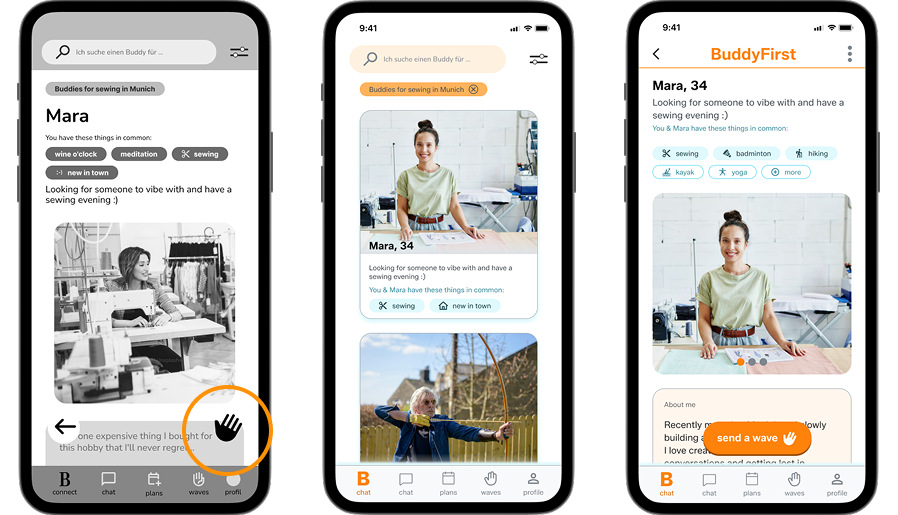
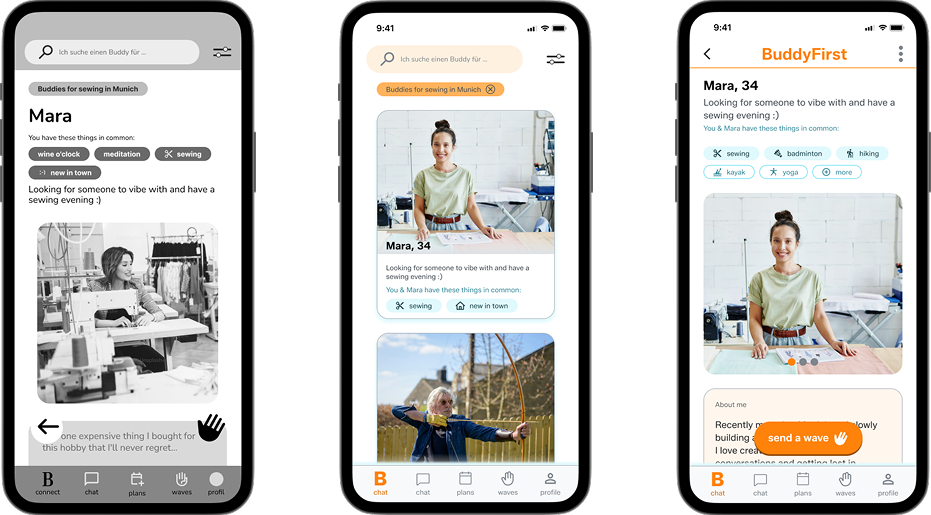
update buddy-first

diff --git a/buddy-first_test124.html b/buddy-first_test124.html
@@ -534,24 +534,28 @@
       <!-- What changed -->
       <p class="section-label" style="margin-bottom:1.25rem;">What changed</p>
 
-      <!-- Row 1: stacked vertically -->
-      <div style="display:flex; flex-direction:column; gap:1rem; margin-bottom:2rem;">
-        <img src="ut-b-profileshorter.png" style="height:413px; width:auto; align-self:flex-start;"/>
-        <div style="background:white; border:1px solid rgba(28,31,59,0.1); border-radius:12px; padding:1.1rem 1.25rem; display:flex; flex-direction:column; gap:0.6rem; width:fit-content; max-width:480px;">
-          <div style="display:flex; gap:0.5rem; align-items:start;"><span style="color:#5580ED; flex-shrink:0;">✦</span><p class="section-body" style="font-size:0.95rem;">Instead of landing on one profile directly, users now see multiple profiles to browse first</p></div>
-          <div style="display:flex; gap:0.5rem; align-items:start;"><span style="color:#5580ED; flex-shrink:0;">✦</span><p class="section-body" style="font-size:0.95rem;">CTA button made visually prominent so the next action is immediately obvious</p></div>
+      <!-- Row 1: two columns, each with image on top + white box below -->
+      <div style="display:flex; gap:3rem; margin-bottom:2rem; align-items:flex-start;">
+        <div style="display:flex; flex-direction:column; gap:1rem; flex:1;">
+          <img src="ut-b-profileshorter.png" style="width:100%; height:auto;"/>
+          <div style="background:white; border:1px solid rgba(28,31,59,0.1); border-radius:12px; padding:1.1rem 1.25rem; display:flex; flex-direction:column; gap:0.6rem;">
+            <div style="display:flex; gap:0.5rem; align-items:start;"><span style="color:#5580ED; flex-shrink:0;">✦</span><p class="section-body" style="font-size:0.95rem;">Instead of landing on one profile directly, users now see multiple profiles to browse first</p></div>
+            <div style="display:flex; gap:0.5rem; align-items:start;"><span style="color:#5580ED; flex-shrink:0;">✦</span><p class="section-body" style="font-size:0.95rem;">CTA button made visually prominent so the next action is immediately obvious</p></div>
+          </div>
         </div>
-        <img src="ut-b-matchingoptions.png" style="height:413px; width:auto; align-self:flex-start;"/>
-        <div style="background:white; border:1px solid rgba(28,31,59,0.1); border-radius:12px; padding:1.1rem 1.25rem; display:flex; flex-direction:column; gap:0.6rem; width:fit-content; max-width:480px;">
-          <div style="display:flex; gap:0.5rem; align-items:start;"><span style="color:#5580ED; flex-shrink:0;">✦</span><p class="section-body" style="font-size:0.95rem;">Post-match options reorganised and reprioritised</p></div>
-          <div style="display:flex; gap:0.5rem; align-items:start;"><span style="color:#5580ED; flex-shrink:0;">✦</span><p class="section-body" style="font-size:0.95rem;">Options reduced from 3 to 2, less decision effort, more clarity</p></div>
+        <div style="display:flex; flex-direction:column; gap:1rem; flex:1;">
+          <img src="ut-b-matchingoptions.png" style="width:100%; height:auto;"/>
+          <div style="background:white; border:1px solid rgba(28,31,59,0.1); border-radius:12px; padding:1.1rem 1.25rem; display:flex; flex-direction:column; gap:0.6rem;">
+            <div style="display:flex; gap:0.5rem; align-items:start;"><span style="color:#5580ED; flex-shrink:0;">✦</span><p class="section-body" style="font-size:0.95rem;">Post-match options reorganised and reprioritised</p></div>
+            <div style="display:flex; gap:0.5rem; align-items:start;"><span style="color:#5580ED; flex-shrink:0;">✦</span><p class="section-body" style="font-size:0.95rem;">Options reduced from 3 to 2, less decision effort, more clarity</p></div>
+          </div>
         </div>
       </div>
 
       <!-- Row 2 -->
       <div style="display:flex; gap:3rem; margin-bottom:1rem; align-items:flex-start;">
-        <img src="ut-b-matching1screen.png" style="height:413px; width:auto; align-self:flex-start;"/>
-        <img src="ut-b-profilelength.png" style="height:413px; width:auto; align-self:flex-start;"/>
+        <img src="ut-b-matching1screen.png" style="height:413px; width:auto;"/>
+        <img src="ut-b-profilelength.png" style="height:413px; width:auto;"/>
       </div>
       <div style="display:flex; gap:3rem; align-items:flex-start;">
         <div style="background:white; border:1px solid rgba(28,31,59,0.1); border-radius:12px; padding:1.1rem 1.25rem; flex:1; display:flex; flex-direction:column; gap:0.6rem;">
@@ -561,7 +565,6 @@
           <div style="display:flex; gap:0.5rem; align-items:start;"><span style="color:#5580ED; flex-shrink:0;">✦</span><p class="section-body" style="font-size:0.95rem;">Profile length drastically reduced, content reorganised with clearer hierarchy</p></div>
         </div>
       </div>
-
 
 
     </div>

diff --git a/buddy-first_test126.html b/buddy-first_test126.html
@@ -536,13 +536,13 @@
 
       <!-- Row 1: stacked vertically -->
       <div style="display:flex; flex-direction:column; gap:1rem; margin-bottom:2rem;">
-        <img src="ut-b-profileshorter.png" style="height:413px; width:auto; align-self:flex-start;"/>
-        <div style="background:white; border:1px solid rgba(28,31,59,0.1); border-radius:12px; padding:1.1rem 1.25rem; display:flex; flex-direction:column; gap:0.6rem; width:fit-content; max-width:480px;">
+        <img src="ut-b-profileshorter.png" style="height:413px; width:auto;"/>
+        <div style="background:white; border:1px solid rgba(28,31,59,0.1); border-radius:12px; padding:1.1rem 1.25rem; display:flex; flex-direction:column; gap:0.6rem;">
           <div style="display:flex; gap:0.5rem; align-items:start;"><span style="color:#5580ED; flex-shrink:0;">✦</span><p class="section-body" style="font-size:0.95rem;">Instead of landing on one profile directly, users now see multiple profiles to browse first</p></div>
           <div style="display:flex; gap:0.5rem; align-items:start;"><span style="color:#5580ED; flex-shrink:0;">✦</span><p class="section-body" style="font-size:0.95rem;">CTA button made visually prominent so the next action is immediately obvious</p></div>
         </div>
-        <img src="ut-b-matchingoptions.png" style="height:413px; width:auto; align-self:flex-start;"/>
-        <div style="background:white; border:1px solid rgba(28,31,59,0.1); border-radius:12px; padding:1.1rem 1.25rem; display:flex; flex-direction:column; gap:0.6rem; width:fit-content; max-width:480px;">
+        <img src="ut-b-matchingoptions.png" style="height:413px; width:auto;"/>
+        <div style="background:white; border:1px solid rgba(28,31,59,0.1); border-radius:12px; padding:1.1rem 1.25rem; display:flex; flex-direction:column; gap:0.6rem;">
           <div style="display:flex; gap:0.5rem; align-items:start;"><span style="color:#5580ED; flex-shrink:0;">✦</span><p class="section-body" style="font-size:0.95rem;">Post-match options reorganised and reprioritised</p></div>
           <div style="display:flex; gap:0.5rem; align-items:start;"><span style="color:#5580ED; flex-shrink:0;">✦</span><p class="section-body" style="font-size:0.95rem;">Options reduced from 3 to 2, less decision effort, more clarity</p></div>
         </div>
@@ -550,8 +550,8 @@
 
       <!-- Row 2 -->
       <div style="display:flex; gap:3rem; margin-bottom:1rem; align-items:flex-start;">
-        <img src="ut-b-matching1screen.png" style="height:413px; width:auto; align-self:flex-start;"/>
-        <img src="ut-b-profilelength.png" style="height:413px; width:auto; align-self:flex-start;"/>
+        <img src="ut-b-matching1screen.png" style="height:413px; width:auto;"/>
+        <img src="ut-b-profilelength.png" style="height:413px; width:auto;"/>
       </div>
       <div style="display:flex; gap:3rem; align-items:flex-start;">
         <div style="background:white; border:1px solid rgba(28,31,59,0.1); border-radius:12px; padding:1.1rem 1.25rem; flex:1; display:flex; flex-direction:column; gap:0.6rem;">
@@ -561,7 +561,6 @@
           <div style="display:flex; gap:0.5rem; align-items:start;"><span style="color:#5580ED; flex-shrink:0;">✦</span><p class="section-body" style="font-size:0.95rem;">Profile length drastically reduced, content reorganised with clearer hierarchy</p></div>
         </div>
       </div>
-
 
 
     </div>

diff --git a/buddy-first_test127.html b/buddy-first_test127.html
@@ -537,12 +537,12 @@
       <!-- Row 1: stacked vertically -->
       <div style="display:flex; flex-direction:column; gap:1rem; margin-bottom:2rem;">
         <img src="ut-b-profileshorter.png" style="height:413px; width:auto; align-self:flex-start;"/>
-        <div style="background:white; border:1px solid rgba(28,31,59,0.1); border-radius:12px; padding:1.1rem 1.25rem; display:flex; flex-direction:column; gap:0.6rem; width:fit-content; max-width:480px;">
+        <div style="background:white; border:1px solid rgba(28,31,59,0.1); border-radius:12px; padding:1.1rem 1.25rem; display:flex; flex-direction:column; gap:0.6rem;">
           <div style="display:flex; gap:0.5rem; align-items:start;"><span style="color:#5580ED; flex-shrink:0;">✦</span><p class="section-body" style="font-size:0.95rem;">Instead of landing on one profile directly, users now see multiple profiles to browse first</p></div>
           <div style="display:flex; gap:0.5rem; align-items:start;"><span style="color:#5580ED; flex-shrink:0;">✦</span><p class="section-body" style="font-size:0.95rem;">CTA button made visually prominent so the next action is immediately obvious</p></div>
         </div>
         <img src="ut-b-matchingoptions.png" style="height:413px; width:auto; align-self:flex-start;"/>
-        <div style="background:white; border:1px solid rgba(28,31,59,0.1); border-radius:12px; padding:1.1rem 1.25rem; display:flex; flex-direction:column; gap:0.6rem; width:fit-content; max-width:480px;">
+        <div style="background:white; border:1px solid rgba(28,31,59,0.1); border-radius:12px; padding:1.1rem 1.25rem; display:flex; flex-direction:column; gap:0.6rem;">
           <div style="display:flex; gap:0.5rem; align-items:start;"><span style="color:#5580ED; flex-shrink:0;">✦</span><p class="section-body" style="font-size:0.95rem;">Post-match options reorganised and reprioritised</p></div>
           <div style="display:flex; gap:0.5rem; align-items:start;"><span style="color:#5580ED; flex-shrink:0;">✦</span><p class="section-body" style="font-size:0.95rem;">Options reduced from 3 to 2, less decision effort, more clarity</p></div>
         </div>
@@ -561,7 +561,6 @@
           <div style="display:flex; gap:0.5rem; align-items:start;"><span style="color:#5580ED; flex-shrink:0;">✦</span><p class="section-body" style="font-size:0.95rem;">Profile length drastically reduced, content reorganised with clearer hierarchy</p></div>
         </div>
       </div>
-
 
 
     </div>

diff --git a/buddy-first131.html b/buddy-first131.html
@@ -562,7 +562,11 @@
         </div>
       </div>
 
-
+      <!-- Prototype embed -->
+      <div style="margin-top:2rem;">
+        <p class="section-label" style="margin-bottom:1rem;">Prototype</p>
+        <iframe style="border: 1px solid rgba(0, 0, 0, 0.1);" width="800" height="450" src="https://embed.figma.com/proto/edPdKkKV6zI1HXxaICwhrR/Lisa-Schubert?node-id=968-2307&scaling=min-zoom&content-scaling=fixed&page-id=439%3A589&starting-point-node-id=968%3A2307&embed-host=share" allowfullscreen></iframe>
+      </div>
 
     </div>
 

diff --git a/buddy-first132.html b/buddy-first132.html
@@ -562,7 +562,11 @@
         </div>
       </div>
 
-
+      <!-- Prototype embed -->
+      <div style="margin-top:2rem;">
+        <p class="section-label" style="margin-bottom:1rem;">Prototype</p>
+        <iframe style="border: 1px solid rgba(0, 0, 0, 0.1);" width="800" height="650" src="https://embed.figma.com/proto/edPdKkKV6zI1HXxaICwhrR/Lisa-Schubert?node-id=968-2307&scaling=min-zoom&content-scaling=fixed&page-id=439%3A589&starting-point-node-id=968%3A2307&embed-host=share" allowfullscreen></iframe>
+      </div>
 
     </div>
 

diff --git a/buddy-first_test129.html b/buddy-first_test129.html
@@ -562,7 +562,11 @@
         </div>
       </div>
 
-
+      <!-- Prototype embed -->
+      <div style="margin-top:2rem;">
+        <p class="section-label" style="margin-bottom:1rem;">Prototype</p>
+        <iframe style="border:1px solid rgba(28,31,59,0.1); border-radius:12px;" width="800" height="450" src="https://embed.figma.com/design/edPdKkKV6zI1HXxaICwhrR/Lisa-Schubert?node-id=968-2307&embed-host=share" allowfullscreen></iframe>
+      </div>
 
     </div>
 

diff --git a/buddy-first130.html b/buddy-first130.html
@@ -562,7 +562,11 @@
         </div>
       </div>
 
-
+      <!-- Prototype embed -->
+      <div style="margin-top:2rem;">
+        <p class="section-label" style="margin-bottom:1rem;">Prototype</p>
+        <iframe style="border: 1px solid rgba(0, 0, 0, 0.1);" width="800" height="450" src="https://embed.figma.com/design/edPdKkKV6zI1HXxaICwhrR/Lisa-Schubert?node-id=968-2307&embed-host=share" allowfullscreen></iframe>
+      </div>
 
     </div>
 

diff --git a/buddy-first_test128.html b/buddy-first_test128.html
@@ -563,7 +563,6 @@
       </div>
 
 
-
     </div>
 
     <!-- ETHICS -->
